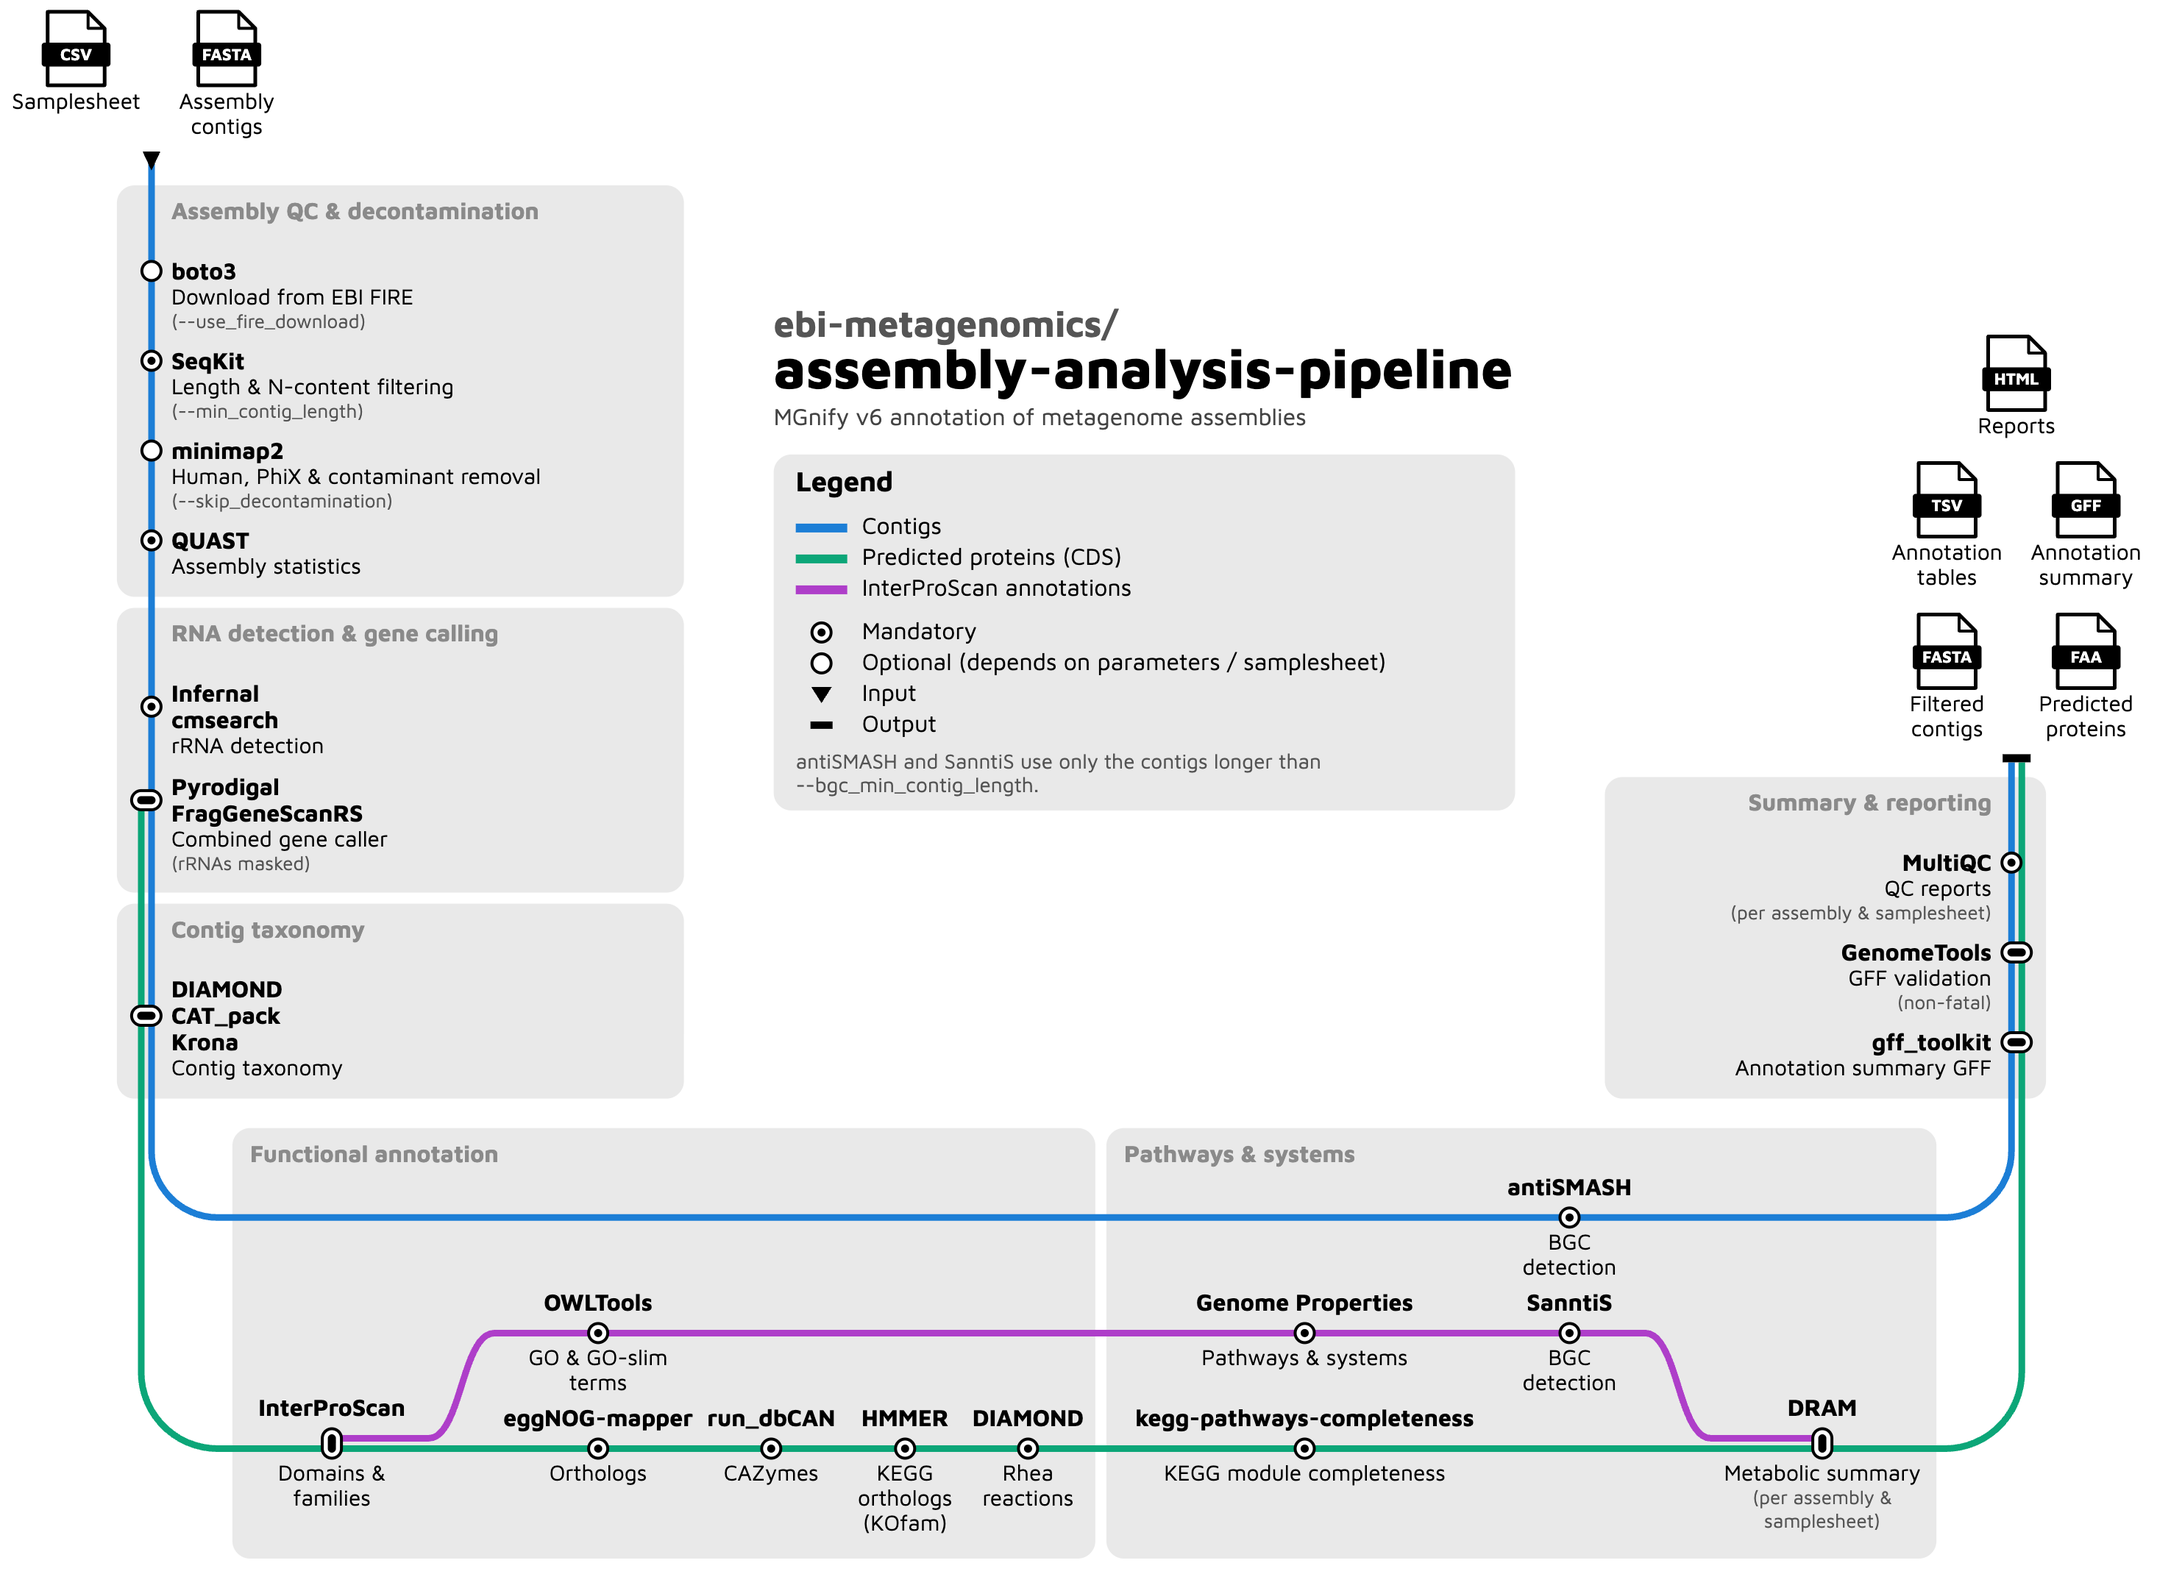
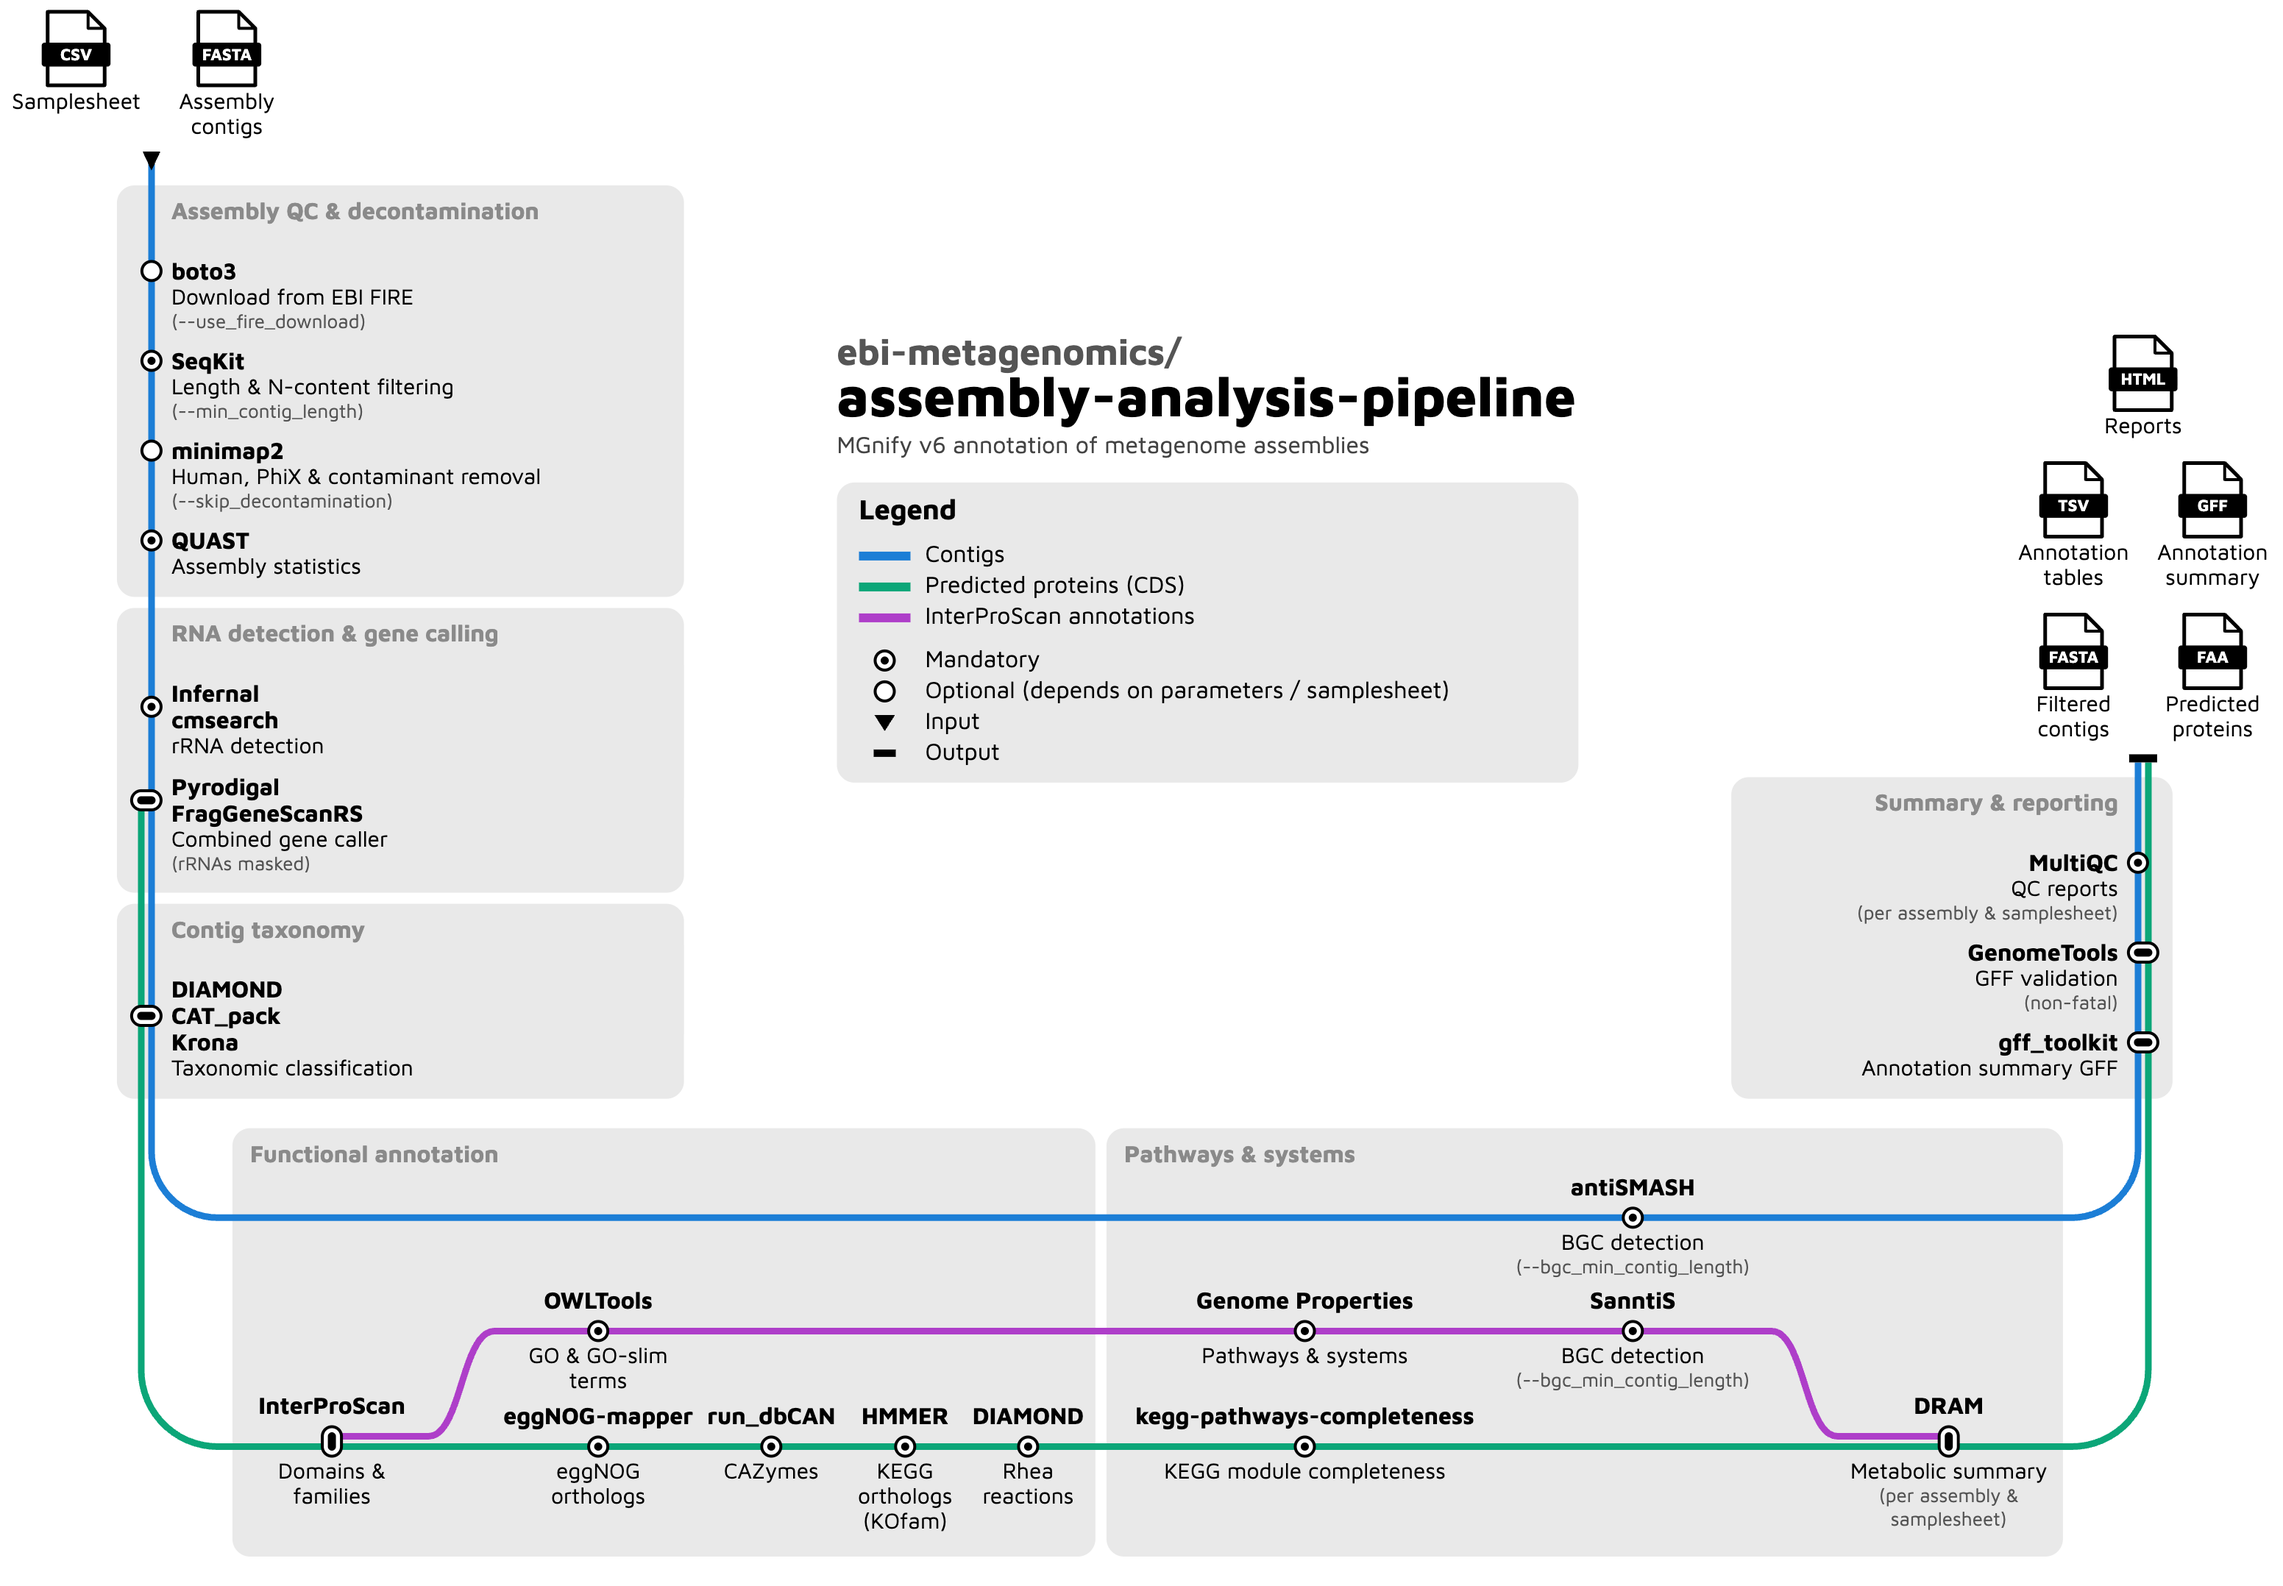
minor fixes

diff --git a/assets/visual/make_metromap.py b/assets/visual/make_metromap.py
@@ -108,6 +108,7 @@ class Station:
     lines: list
     optional: bool
     input: tuple | None = None  # (label, caption lines, note lines)
+    rewrap: bool = True  # False: a folded map keeps the line breaks of the description and note
     x: float = 0.0
     top: float = 0.0  # highest track in use at the station (set by the layout)
     bottom: float = 0.0  # lowest track in use at the station (set by the layout)
@@ -264,7 +265,8 @@ def parse(spec):
         icon = icon and (icon.get("label", ""), text_lines(icon.get("caption")), text_lines(icon.get("note")))
         stations.append(Station(names=names, branches=branches, desc=text_lines(raw.get("desc")),
                                 note=text_lines(raw.get("note")), lane=lane, stage=stage, col=col,
-                                lines=list(st_lines), optional=bool(raw.get("optional")), input=icon))
+                                lines=list(st_lines), optional=bool(raw.get("optional")), input=icon,
+                                rewrap=bool(raw.get("rewrap", True))))
 
     seen = {}
     for s in stations:
@@ -1097,14 +1099,14 @@ def render_folded(m, font_b64=None):
                 stages=[st for st in m.stages if st[0] not in vertical], stations=mid, inputs=[], outputs=[])
     # Fewer line breaks in the station descriptions: one line in the columns (the labels are next to
     # the lines, so there is room), and as few lines as fit the column width in the bottom row.
-    for s in left_st + right_st:
+    for s in [s for s in left_st + right_st if s.rewrap]:
         s.desc = [" ".join(s.desc)] if s.desc else []
         s.note = [" ".join(s.note)] if s.note else []
     col_w = {}
     for s in mid:
         col_w[(s.stage, s.col)] = max(col_w.get((s.stage, s.col), 0), station_width(row, s))
     for s in mid:
-        if not s.fork:
+        if s.rewrap and not s.fork:
             s.desc = rewrap(s.desc, col_w[(s.stage, s.col)], SIZE["desc"])
             s.note = rewrap(s.note, col_w[(s.stage, s.col)], SIZE["note"])
     lay = Layout(row)
